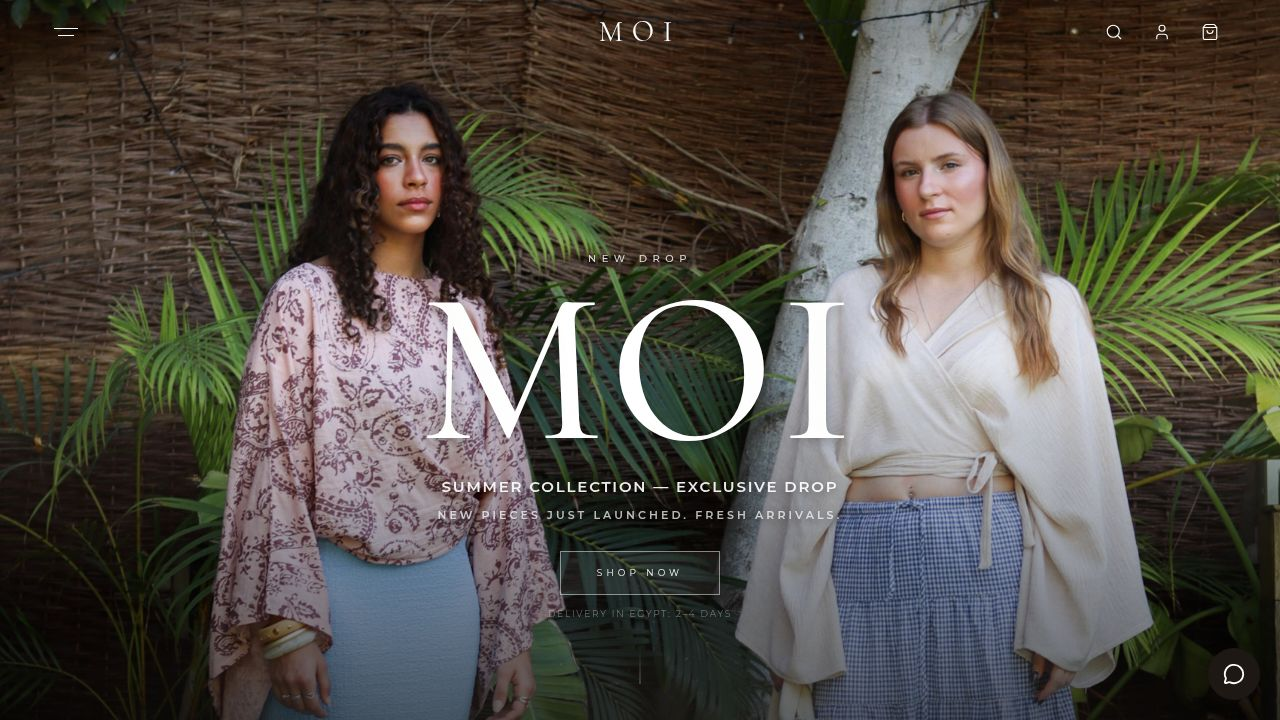
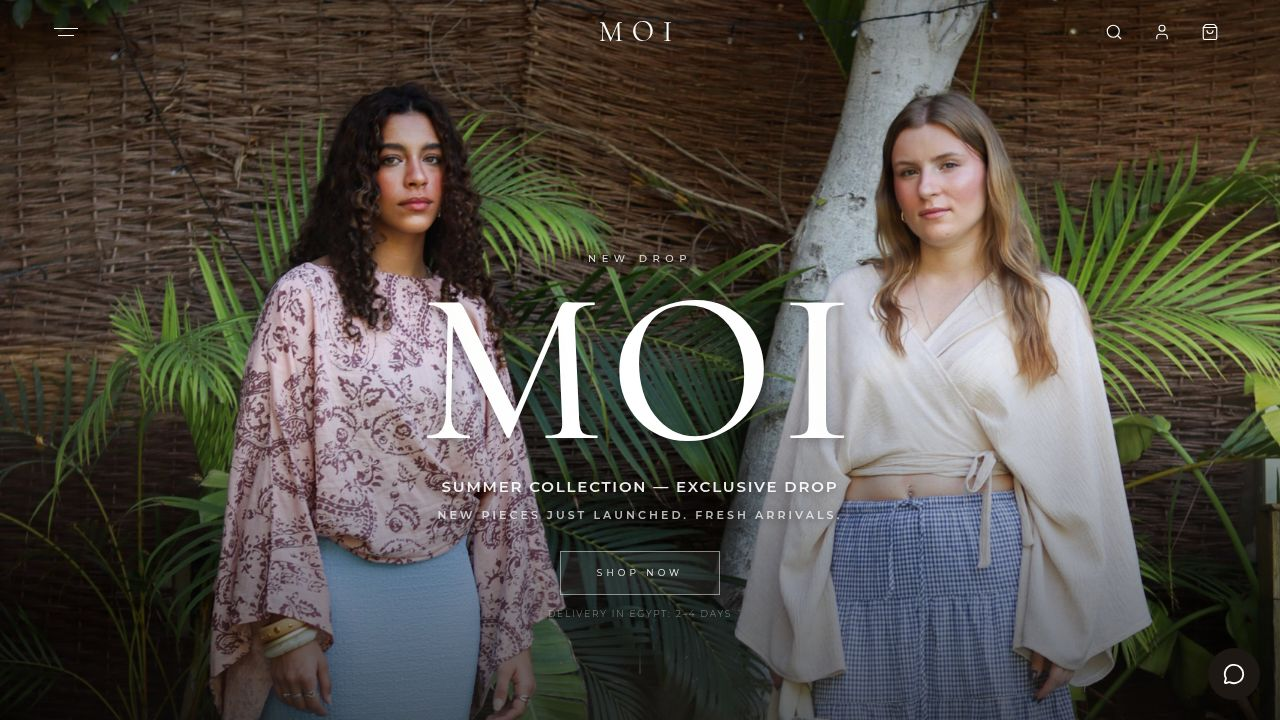
Center the size guide pop-up in the middle of the user's screen
Wrap the size guide `AnimatePresence` component in `createPortal` to render it into `document.body`, ensuring it appears centered regardless of stacking contexts.

Replit-Commit-Author: Agent
Replit-Commit-Session-Id: d669be46-e7a9-40cf-9edf-2144b13387bc
Replit-Commit-Checkpoint-Type: full_checkpoint
Replit-Commit-Event-Id: 1ea4fa78-eb82-4a1d-b1e1-dd9739b651ef
Replit-Commit-Screenshot-Url: https://storage.googleapis.com/screenshot-production-us-central1/3095ac8c-c529-4d3f-b18a-1650accab2e5/d669be46-e7a9-40cf-9edf-2144b13387bc/0XHBnej
Replit-Helium-Checkpoint-Created: true

diff --git a/artifacts/moi/src/pages/ProductPage.tsx b/artifacts/moi/src/pages/ProductPage.tsx
@@ -1,4 +1,5 @@
 import { useState, useEffect, useLayoutEffect, useRef, useCallback, useMemo } from "react";
+import { createPortal } from "react-dom";
 import { motion, AnimatePresence } from "framer-motion";
 import { ArrowLeft, Bell } from "lucide-react";
 import { ProductCarousel, type CarouselItem } from "@/components/ProductCarousel";
@@ -1731,6 +1732,7 @@ export function ProductPage({ handle, onBack, onNavigate, onPageNavigate }: Prod
       />
 
       {/* Size Guide Modal */}
+      {createPortal(
       <AnimatePresence>
         {sizeGuideOpen && (
           <motion.div
@@ -1740,7 +1742,7 @@ export function ProductPage({ handle, onBack, onNavigate, onPageNavigate }: Prod
             exit={{ opacity: 0 }}
             transition={{ duration: 0.2 }}
             onClick={() => setSizeGuideOpen(false)}
-            style={{ position: "fixed", inset: 0, zIndex: 200, backgroundColor: "rgba(30,24,20,0.55)", backdropFilter: "blur(8px)", WebkitBackdropFilter: "blur(8px)", display: "flex", alignItems: "center", justifyContent: "center", padding: "16px" }}
+            style={{ position: "fixed", inset: 0, zIndex: 9999, backgroundColor: "rgba(30,24,20,0.55)", backdropFilter: "blur(8px)", WebkitBackdropFilter: "blur(8px)", display: "flex", alignItems: "center", justifyContent: "center", padding: "16px" }}
           >
             <motion.div
               key="size-guide-panel"
@@ -1826,6 +1828,7 @@ export function ProductPage({ handle, onBack, onNavigate, onPageNavigate }: Prod
           </motion.div>
         )}
       </AnimatePresence>
+      , document.body)}
     </>
   );
 }